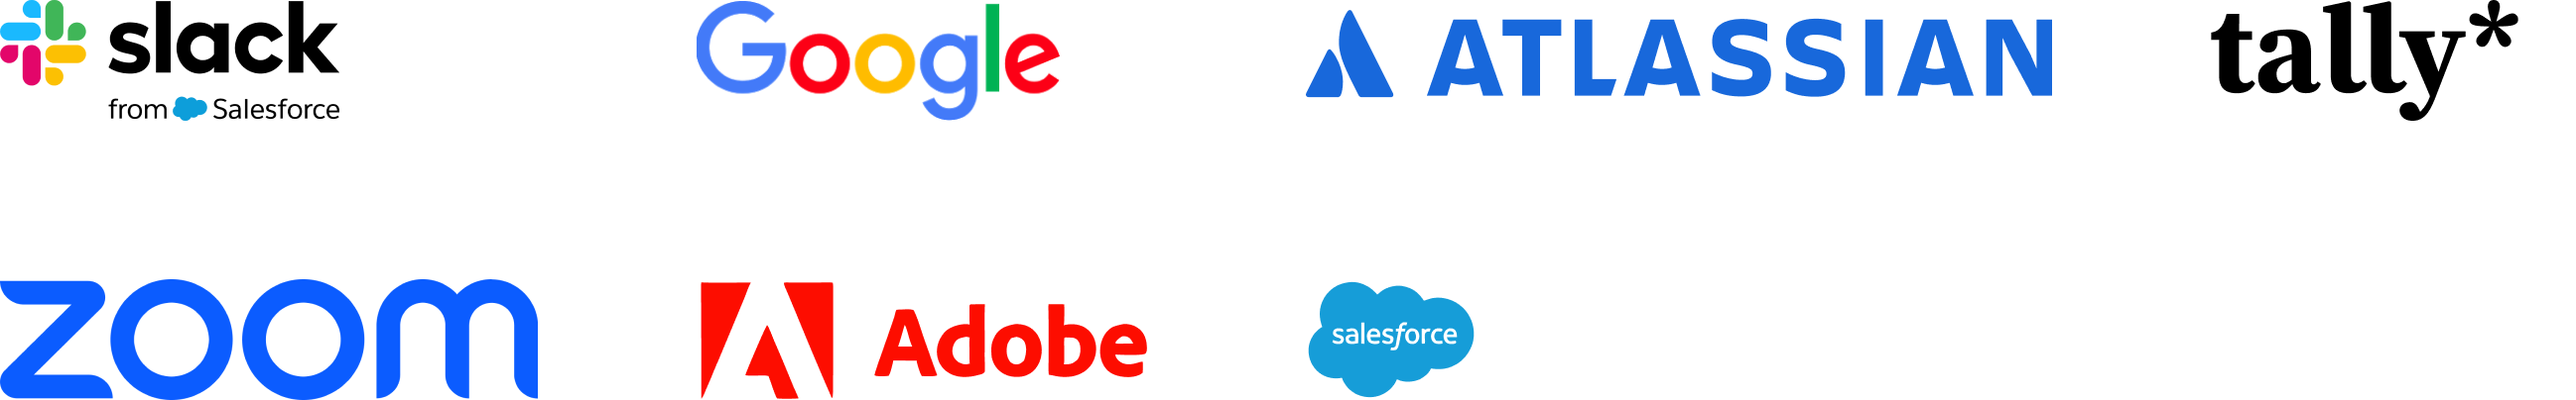
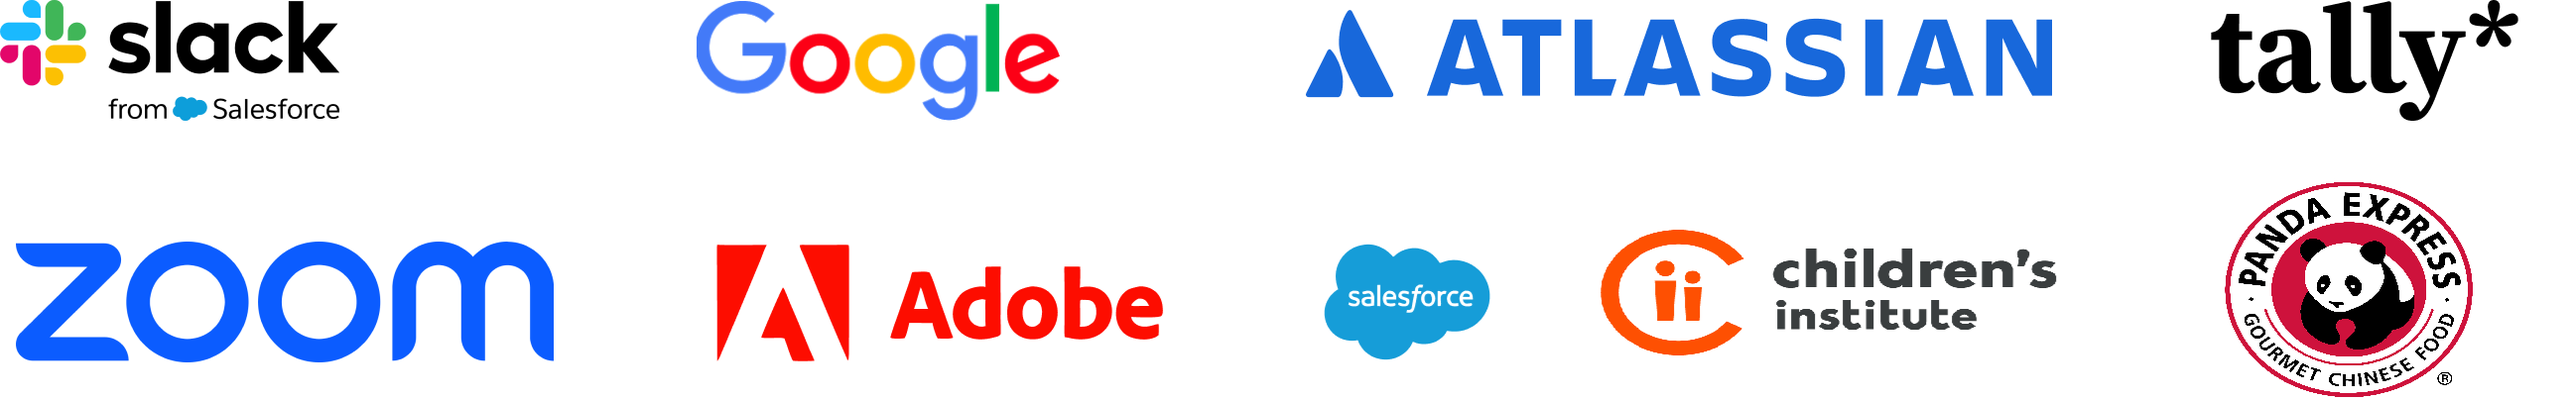
Updated partners

diff --git a/src/Pages/OurPartners.tsx b/src/Pages/OurPartners.tsx
@@ -6,6 +6,7 @@ import cisco from "../assets/images/our-partners/Cisco.jpg";
 import EDD from "../assets/images/our-partners/EDD.png";
 import ECLA from "../assets/images/our-partners/EC.png";
 import YMCA from "../assets/images/our-partners/ymca.png";
+import canes from "../assets/images/our-partners/canes.png";
 
 const partnersData = [
   {
@@ -21,9 +22,12 @@ const partnersData = [
   },
   {
     title: "In-Kind Support Partners",
-    images: [{ src: support, className: "h-28 sm:h-32 md:h-40" }],
+    images: [{ src: support, className: "h-25 sm:h-32 md:h-40" }],
   },
-  { title: "Donors", images: [] },
+  {
+    title: "Donors",
+    images: [{ src: canes, className: "h-28 sm:h-32 md:h-40" }],
+  },
   {
     title: "Other Partners",
     images: [
